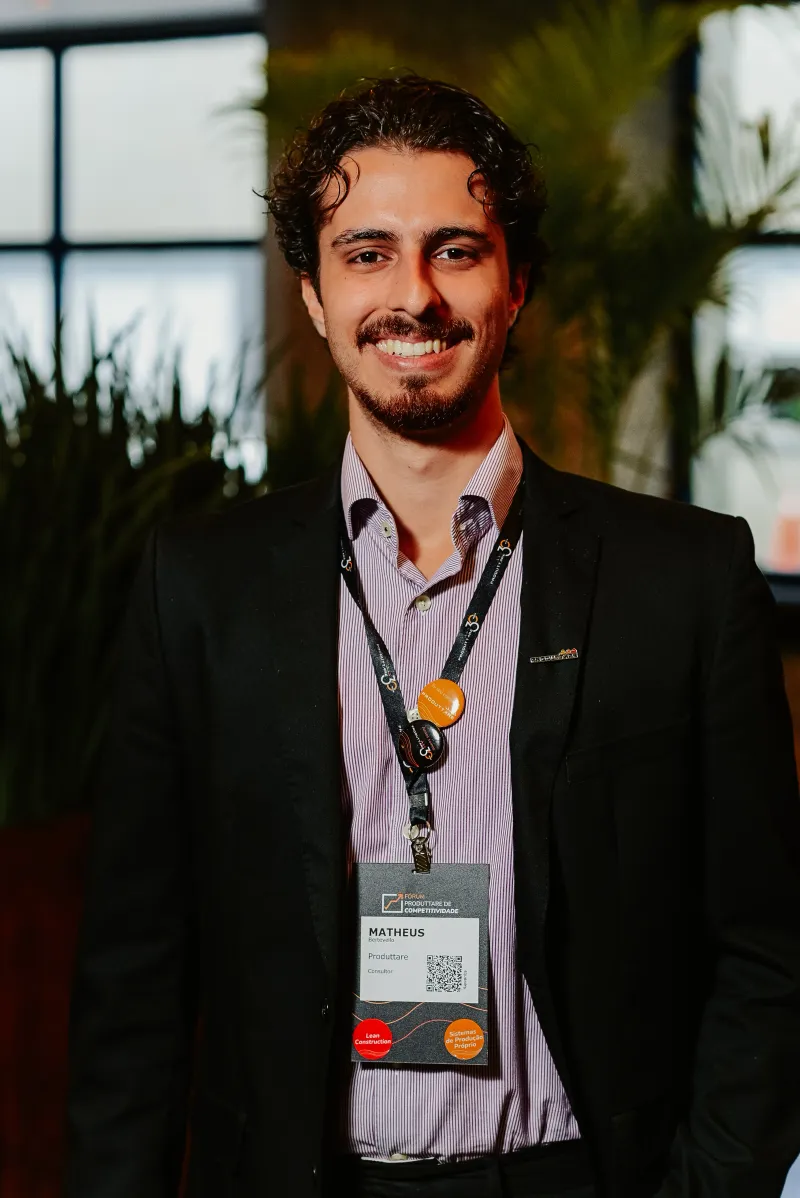
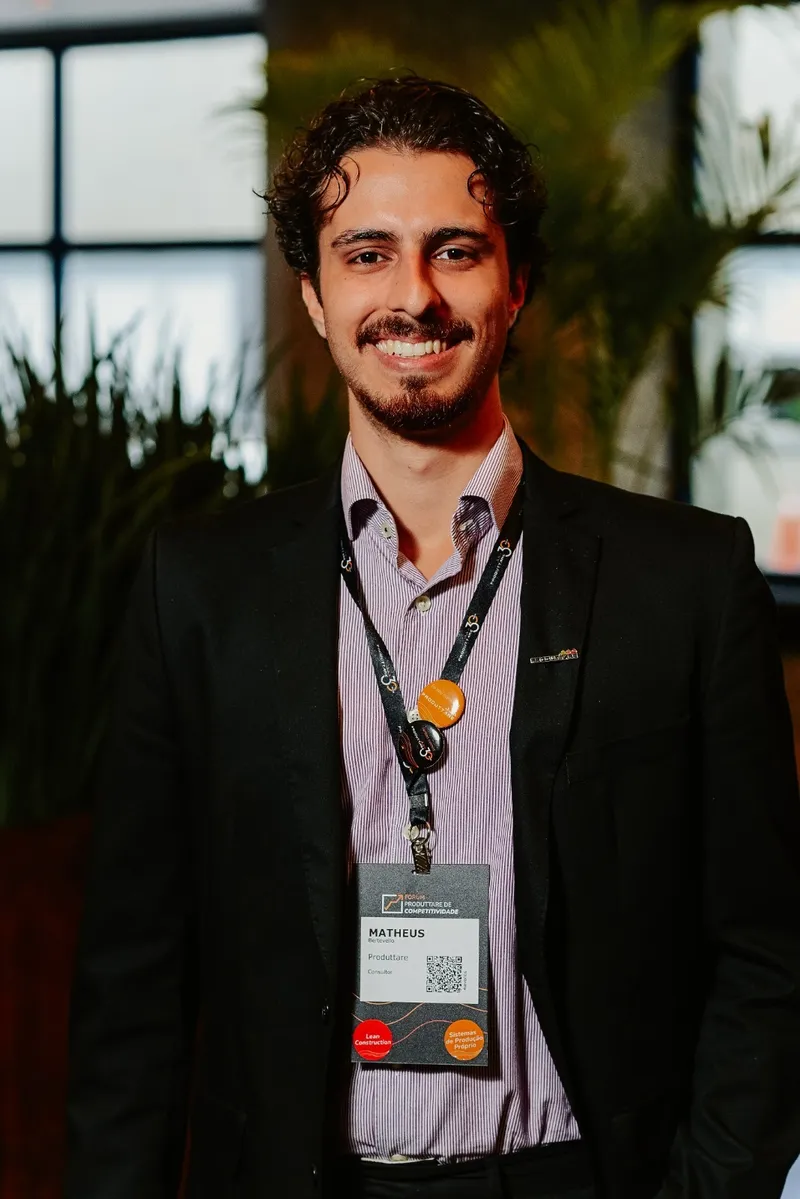
fix: Add missing CookieBanner and CookieConsentProvider files, update founder photo
- Add CookieBanner.tsx and CookieConsentProvider.tsx that were imported
  in layout.tsx but not committed (caused Vercel build failure)
- Update matheus-bertevello photo (new JPEG converted to WebP, 69KB)

diff --git a/components/layout/CookieBanner.tsx b/components/layout/CookieBanner.tsx
@@ -1,0 +1,83 @@
+"use client";
+
+import { motion, AnimatePresence, useReducedMotion } from "framer-motion";
+import { useCookieConsent } from "@/components/providers/CookieConsentProvider";
+import { Button } from "@/components/ui/button";
+import { cn } from "@/lib/utils";
+
+export function CookieBanner() {
+  const { isVisible, acceptAll, acceptNecessary } = useCookieConsent();
+  const prefersReducedMotion = useReducedMotion();
+
+  return (
+    <AnimatePresence>
+      {isVisible && (
+        <motion.div
+          initial={prefersReducedMotion ? { opacity: 0 } : { opacity: 0, y: 100 }}
+          animate={{ opacity: 1, y: 0 }}
+          exit={prefersReducedMotion ? { opacity: 0 } : { opacity: 0, y: 100 }}
+          transition={{
+            duration: 0.5,
+            ease: [0.19, 1, 0.22, 1],
+          }}
+          className={cn(
+            "fixed bottom-0 left-0 right-0 z-[140]",
+            "px-4 pb-4 md:pb-6",
+            "md:left-auto md:right-6 md:w-auto md:max-w-md"
+          )}
+        >
+          <div
+            className={cn(
+              "bg-white rounded-lg",
+              "shadow-[0_8px_32px_rgba(0,0,0,0.12)]",
+              "border border-black/10",
+              "p-4 md:p-5"
+            )}
+          >
+            <div className="flex flex-col gap-3 md:gap-4">
+              <div>
+                <p className="text-sm text-black/90 leading-relaxed">
+                  Utilizamos cookies para melhorar sua experiência em nosso site.
+                </p>
+                <a
+                  href="/privacidade"
+                  className="text-xs text-black/50 underline underline-offset-2 hover:text-black transition-colors"
+                >
+                  Política de Privacidade
+                </a>
+              </div>
+
+              <div className="flex gap-2">
+                <Button
+                  variant="outline"
+                  size="sm"
+                  onClick={acceptNecessary}
+                  className={cn(
+                    "flex-1 text-xs",
+                    "border-black/10 text-black/70",
+                    "hover:bg-black/5 hover:text-black"
+                  )}
+                >
+                  Apenas necessários
+                </Button>
+
+                <Button
+                  variant="default"
+                  size="sm"
+                  onClick={acceptAll}
+                  className={cn(
+                    "flex-1 text-xs",
+                    "bg-black text-white",
+                    "hover:bg-black/90"
+                  )}
+                >
+                  Aceitar todos
+                </Button>
+              </div>
+            </div>
+          </div>
+        </motion.div>
+      )}
+    </AnimatePresence>
+  );
+}

diff --git a/components/providers/CookieConsentProvider.tsx b/components/providers/CookieConsentProvider.tsx
@@ -1,0 +1,94 @@
+"use client";
+
+import {
+  createContext,
+  useContext,
+  useState,
+  useEffect,
+  useCallback,
+  ReactNode,
+} from "react";
+
+type ConsentLevel = "all" | "necessary" | null;
+
+interface CookieConsentContextType {
+  consent: ConsentLevel;
+  hasConsented: boolean;
+  acceptAll: () => void;
+  acceptNecessary: () => void;
+  isVisible: boolean;
+}
+
+const CookieConsentContext = createContext<CookieConsentContextType | undefined>(
+  undefined
+);
+
+const STORAGE_KEY = "berkahn-cookie-consent";
+const CONSENT_VERSION = "1.0";
+
+interface StoredConsent {
+  level: ConsentLevel;
+  version: string;
+  timestamp: number;
+}
+
+export function CookieConsentProvider({ children }: { children: ReactNode }) {
+  const [consent, setConsent] = useState<ConsentLevel>(null);
+  const [isVisible, setIsVisible] = useState(false);
+
+  useEffect(() => {
+    const stored = localStorage.getItem(STORAGE_KEY);
+    if (stored) {
+      try {
+        const parsed: StoredConsent = JSON.parse(stored);
+        if (parsed.version === CONSENT_VERSION && parsed.level) {
+          setConsent(parsed.level);
+          return;
+        }
+      } catch {
+        // Invalid data, show banner
+      }
+    }
+    const timer = setTimeout(() => setIsVisible(true), 1500);
+    return () => clearTimeout(timer);
+  }, []);
+
+  const saveConsent = useCallback((level: ConsentLevel) => {
+    const data: StoredConsent = {
+      level,
+      version: CONSENT_VERSION,
+      timestamp: Date.now(),
+    };
+    localStorage.setItem(STORAGE_KEY, JSON.stringify(data));
+    setConsent(level);
+    setIsVisible(false);
+
+    if (typeof window !== "undefined" && window.gtag) {
+      window.gtag("consent", "update", {
+        analytics_storage: level === "all" ? "granted" : "denied",
+        ad_storage: level === "all" ? "granted" : "denied",
+      });
+    }
+  }, []);
+
+  const acceptAll = useCallback(() => saveConsent("all"), [saveConsent]);
+  const acceptNecessary = useCallback(() => saveConsent("necessary"), [saveConsent]);
+
+  const hasConsented = consent !== null;
+
+  return (
+    <CookieConsentContext.Provider
+      value={{ consent, hasConsented, acceptAll, acceptNecessary, isVisible }}
+    >
+      {children}
+    </CookieConsentContext.Provider>
+  );
+}
+
+export function useCookieConsent() {
+  const context = useContext(CookieConsentContext);
+  if (context === undefined) {
+    throw new Error("useCookieConsent must be used within a CookieConsentProvider");
+  }
+  return context;
+}
